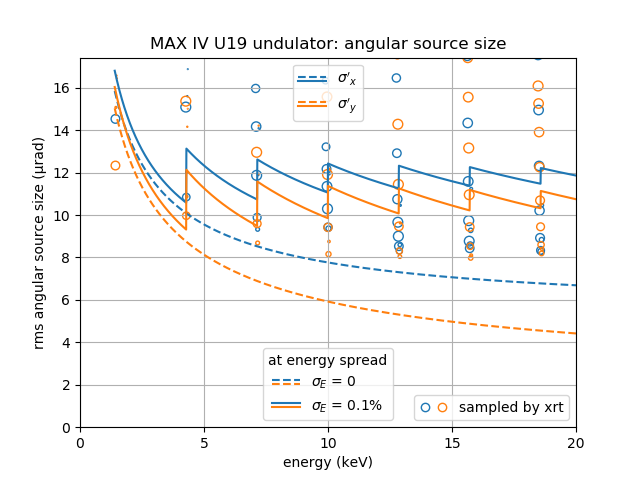
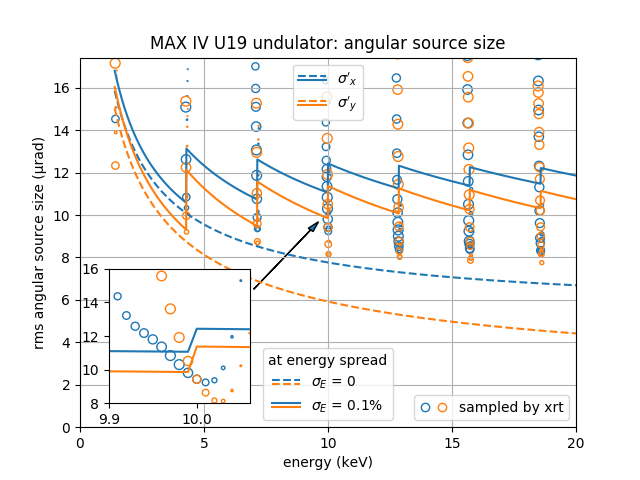
added magnified inset to the plot of angular source size

diff --git a/xrt/backends/raycing/sources.py b/xrt/backends/raycing/sources.py
@@ -527,9 +527,10 @@ The linear and angular source sizes, as calculated with equations from
 :math:`\varepsilon_x` = 263 pmrad, :math:`\varepsilon_y` = 8 pmrad,
 :math:`\beta_x` = 9 m and :math:`\beta_y` = 2 m, are shown below. Energy spread
 mainly affects the angular sizes and not the linear ones. The calculated
-angular sizes were further compared with those of the sampled field (circles).
-The latter strongly vary due to energy detuning around the nominal harmonic
-positions. This size variation appear to prevail over the effect of emittance
+angular sizes were further compared with those of the sampled field (circles)
+at variable energies around the nominal harmonic positions. The sampled field
+sizes strongly vary due to energy detuning, as is better seen on the magnified
+inset. This size variation appear to prevail over the effect of emittance
 and energy spread. The size of the circles is proportional to the total flux
 normalized to the maximum at each respective harmonic. It sharply decreases at
 the higher energy end of a harmonic and has a long tail at the lower energy
